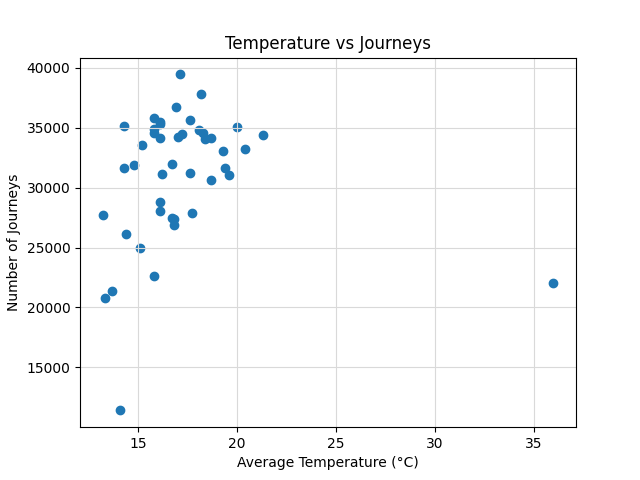
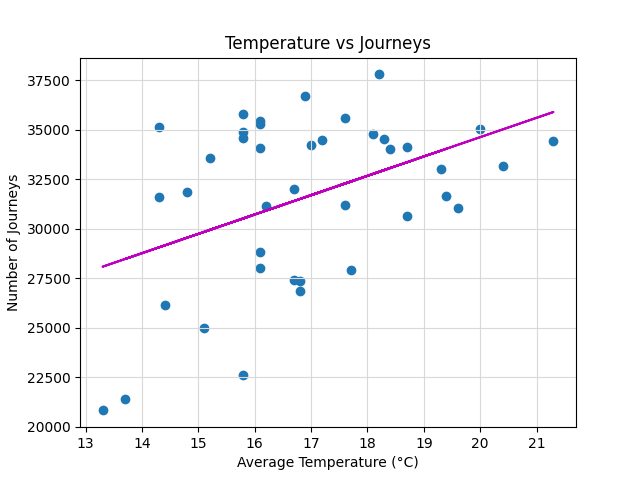
Graphs

diff --git a/main.py b/main.py
@@ -3,6 +3,10 @@ from mapping import Map, ScaleGenerator
 from graphs import plot_temp_vs_journeys
 import config
 
+###
+# See speaker notes of the presentation to find a discussion of the output
+###
+
 if __name__ == '__main__':
     # Load and process csv files
     data = Loader("data/bike_journeys.csv", "data/weather.csv", "data/bike_stations.csv")
@@ -13,20 +17,20 @@ if __name__ == '__main__':
     # Create a Map object which handles osmnx and folium
     bike_map = Map(config.center_cords, config.zoom_start, scale_generator)
 
-    # # Add stations to the map
-    # bike_map.add_stations(data.locations)
-    # # Find and plot shortest route between cords
-    # bike_map.plot_shortest_cycle_route((-0.10997, 51.529163), (-0.136039, 51.519914))
-    # bike_map.plot_shortest_cycle_route((-0.10997, 51.529163), (-0.136039, 51.519914))
+    # Add stations to the map
+    bike_map.add_stations(data.locations)
+    # Find and plot shortest route between cords
+    bike_map.plot_shortest_cycle_route((-0.10997, 51.529163), (-0.136039, 51.519914), "blue")
+    bike_map.plot_shortest_cycle_route((-0.10997, 51.529163), (-0.136039, 51.519914), "blue")
 
-    # Plot most used routes excluding round trips
-    routes = data.calculate_common_routes(10, 20)
-    bike_map.plot_cycle_routes(routes)
+    # # Plot most used routes excluding round trips
+    # routes = data.calculate_common_routes(10, 20)
+    # bike_map.plot_cycle_routes(routes)
 
     # Open map in browser
     bike_map.show_map()
 
-    # plot_temp_vs_journeys(data)
+    plot_temp_vs_journeys(data)
 
 
 

diff --git a/graphs.py b/graphs.py
@@ -1,8 +1,15 @@
 import matplotlib.pyplot as plt
+from utilities import quantile_test
+from scipy import stats
 
 
 def plot_temp_vs_journeys(data):
-    plt.scatter(data.daily["TAVG (CELSIUS)"], data.daily["JOURNEYS"])
+    df_filtered = quantile_test(data.daily, "TAVG (CELSIUS)")
+    df_filtered = quantile_test(df_filtered, "JOURNEYS")
+    slope, intercept, _, _, _ = stats.linregress(df_filtered["TAVG (CELSIUS)"], df_filtered["JOURNEYS"])
+    best_fit = [slope * i + intercept for i in df_filtered["TAVG (CELSIUS)"]]
+    plt.scatter(df_filtered["TAVG (CELSIUS)"], df_filtered["JOURNEYS"])
+    plt.plot(df_filtered["TAVG (CELSIUS)"], best_fit, color="m")
     plt.title("Temperature vs Journeys")
     plt.xlabel("Average Temperature (°C)")
     plt.ylabel("Number of Journeys")

diff --git a/utilities.py b/utilities.py
@@ -13,6 +13,12 @@ def new_lat_long(latitude, longitude, dy, dx, f):
     return round(new_lat, 6), round(new_long, 6)
 
 
+def quantile_test(df, column_name):
+    q_low = df[column_name].quantile(0.01)
+    q_hi = df[column_name].quantile(0.99)
+    return df[(df[column_name] < q_hi) & (df[column_name] > q_low)]
+
+
 if __name__ == '__main__':
     # Lat
     # 51.549369
